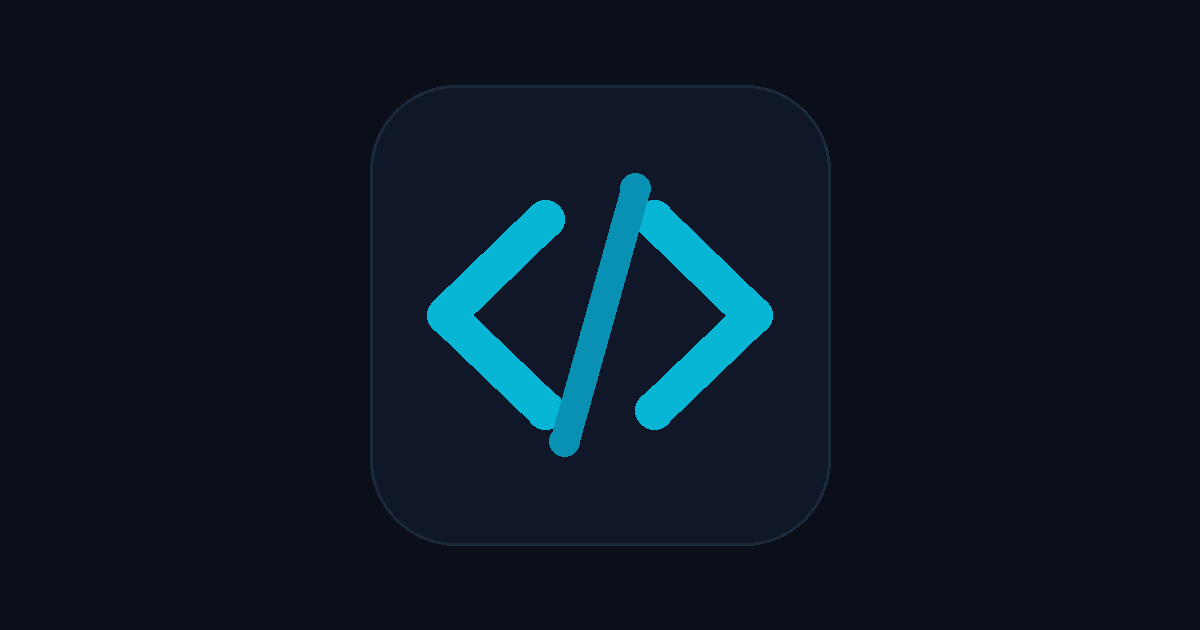
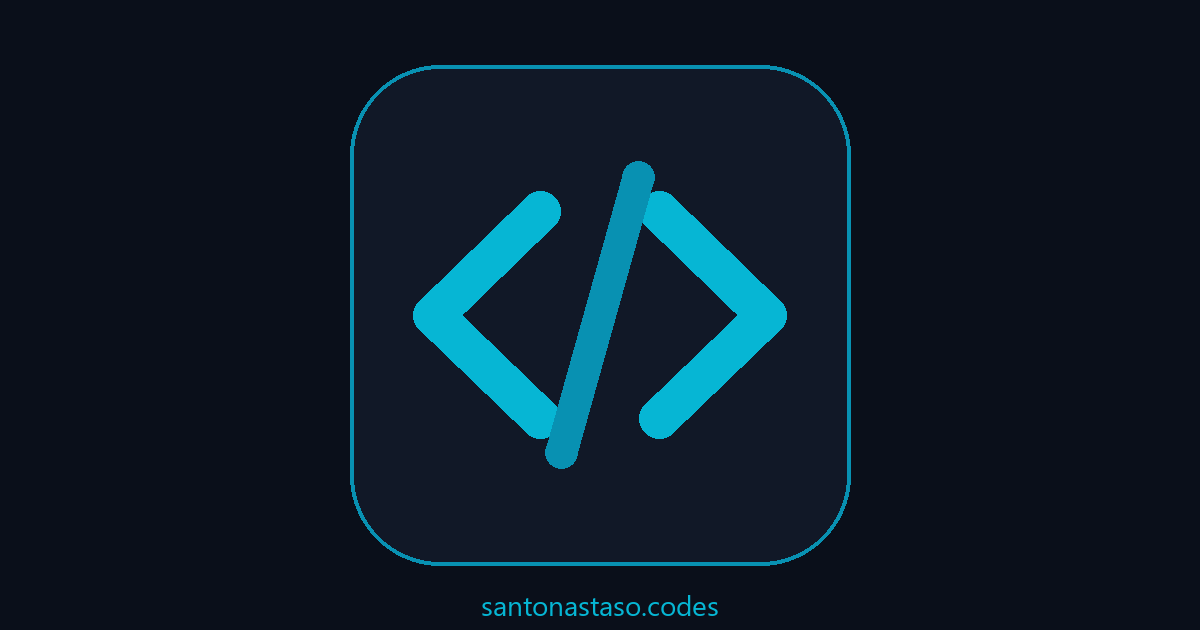
Fix social preview: separate OG description, update OG image

diff --git a/src/components/Seo.jsx b/src/components/Seo.jsx
@@ -9,9 +9,13 @@ const Seo = ({ title, description, pathname, keywords, image }) => {
   const seoDescription = description || metadata.description;
   const seoKeywords = keywords || metadata.keywords || "Alex Santonastaso, software engineer, developer, portfolio";
 
+  // Use a cleaner description for social previews
+  const ogDescription = description || 'Software Engineer based in London. Portfolio and projects.';
+
   const seo = {
     title: seoTitle,
     description: seoDescription,
+    ogDescription,
     keywords: seoKeywords,
     url: `${metadata.siteUrl}${pathname || ``}`,
     image: `${metadata.siteUrl.replace(/\/$/, '')}/og-image.png`,
@@ -101,7 +105,7 @@ const Seo = ({ title, description, pathname, keywords, image }) => {
       {/* Open Graph / Facebook */}
       <meta property="og:type" content="website" />
       <meta property="og:title" content={seo.title} />
-      <meta property="og:description" content={seo.description} />
+      <meta property="og:description" content={seo.ogDescription} />
       <meta property="og:url" content={seo.url} />
       <meta property="og:site_name" content={metadata.title} />
       <meta property="og:locale" content="en_GB" />
@@ -114,7 +118,7 @@ const Seo = ({ title, description, pathname, keywords, image }) => {
       {/* Twitter Card */}
       <meta name="twitter:card" content={seo.image ? "summary_large_image" : "summary"} />
       <meta name="twitter:title" content={seo.title} />
-      <meta name="twitter:description" content={seo.description} />
+      <meta name="twitter:description" content={seo.ogDescription} />
       {seo.image && <meta name="twitter:image" content={seo.image} />}
       
       {/* Additional SEO Tags */}

diff --git a/gatsby-config.js b/gatsby-config.js
@@ -9,7 +9,7 @@ module.exports = {
     siteUrl: `https://santonastaso.codes/`,
     name: 'Alex Santonastaso',
     title: `Alex Santonastaso - Software Engineer`,
-    description: `Software Engineer based in London. Portfolio and projects.`,
+    description: `Software Engineer · Python · Cloud · Full-Stack`,
     author: `Alex Santonastaso`,
     keywords: `Alex Santonastaso, software engineer, developer, portfolio, Python, automation, web development, React, Gatsby, computer science, data science, AWS, Terraform, FastAPI`,
     github: `https://github.com/snts42`,

diff --git a/src/pages/index.jsx b/src/pages/index.jsx
@@ -71,7 +71,6 @@ export function Head() {
   return (
     <Seo 
       title="Software Engineer"
-      description="Software Engineer specialising in Python, cloud infrastructure (AWS/Terraform), and full-stack web development. Currently building tools at the National Careers Service (UK Gov)."
       pathname="/"
     />
   );
